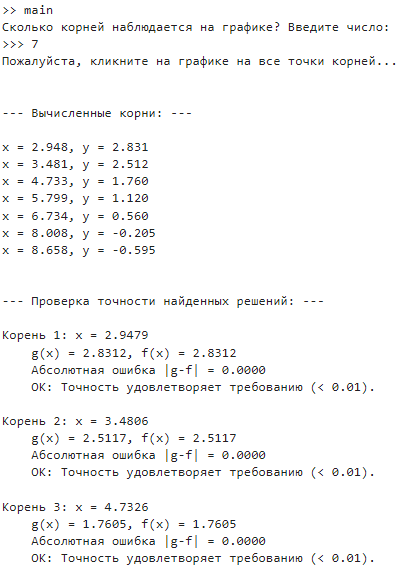
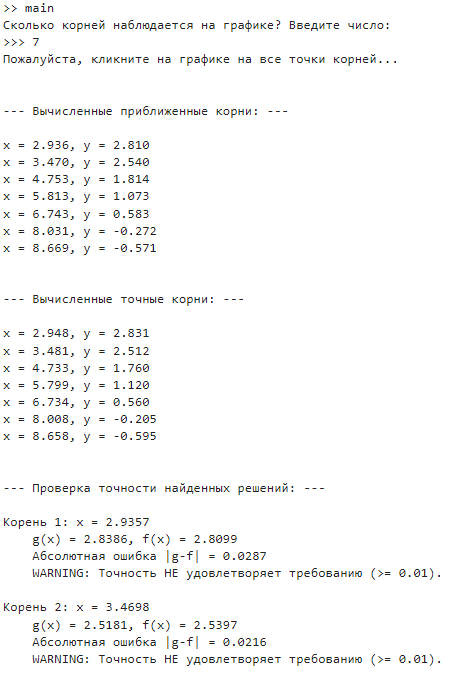
pioa_lab-6_v1 fix

diff --git a/reports/sem_3/pioa/lab-6/code/main.m b/reports/sem_3/pioa/lab-6/code/main.m
@@ -6,7 +6,7 @@ g = @(x) a*x + b;
 f = @(x) sin(x/2) - cos(3 * x) + 1;
 r = @(x) g(x) - f(x);
 
-x = 0 : 0.001 : 12; 
+x = 2 : 0.001 : 11; 
 
 y_1 = g(x);
 y_2 = f(x);
@@ -32,29 +32,61 @@ number_of_roots = input('>>> ');
 disp('Пожалуйста, кликните на графике на все точки корней...');
 [X_approx, ~] = ginput(number_of_roots);  % Пользователь находит корни на графике
 
+%% Приближенное решение
+
+dx = 0.5;
+approx_roots = inf(2, length(X_approx));  % 2 x N, где N - число корней. Первая строка для x, вторая для dy
+min_dy = inf(length(X_approx));
+for i = 1 : length(X_approx)
+    for x_0 = X_approx(i) - dx : 0.05 : X_approx(i) + dx
+        dy = abs(r(x_0));
+
+        if dy < min_dy(i)
+            approx_roots(:, i) = [x_0; f(x_0)];
+            min_dy(i) = dy;
+        end
+    end
+end
+
+fprintf('\n\n');
+disp('--- Вычисленные приближенные корни: ---');
+fprintf('\n');
+fprintf("x = %.3f, y = %.3f\n", approx_roots);
+
+% Добавление найденных точек на график
+h_points_approx = plot(h_axes, approx_roots(1, :), approx_roots(2, :), 'o');
+
+
+%% Точное решение
 % fzero пытается найти x, при котором r(x) = 0 на основе начального приближения
 % arrayfun применяется для обработки всех приближений сразу
 X_sol = arrayfun(@(x) fzero(r, x), X_approx);
 Y_sol = g(X_sol);
 
 fprintf('\n\n');
-disp('--- Вычисленные корни: ---');
+disp('--- Вычисленные точные корни: ---');
 fprintf('\n');
 fprintf("x = %.3f, y = %.3f\n", [X_sol'; Y_sol']);
 
 % Добавление найденных точек на график
-h_points = plot(h_axes, X_sol, Y_sol);
+h_points_accurat = plot(h_axes, X_sol, Y_sol, 'o');
 legend;
 
 %% Управление свойствами объектов
-set(h_points, ...
+set(h_points_approx, ...
     'Marker',           'o', ...
-    'MarkerEdgeColor',  'k', ...  % black
-    'MarkerSize',       8, ...
-    'DisplayName',      'Найденные решения');
+    'MarkerEdgeColor',  'magenta', ...
+    'MarkerFaceColor',  'magenta', ...
+    'MarkerSize',       4, ...
+    'DisplayName',      'Найденные приближенные решения');
+set(h_points_accurat, ...
+    'Marker',           'o', ...
+    'MarkerEdgeColor',  'black', ...
+    'MarkerSize',       12, ...
+    'DisplayName',      'Найденные точные решения');
 set(h_line1, ...
     'Color',       'blue', ...
-    'LineStyle',   '--', ...
+    'LineStyle',   '-', ...
     'LineWidth',   1, ...
     'DisplayName', 'g(x) = -0.6x + 4.6');
 
@@ -71,8 +103,8 @@ set(h_axes, 'GridLineStyle', ':');
 fprintf('\n\n');
 disp('--- Проверка точности найденных решений: ---');
 fprintf('\n');
-for i = 1:length(X_sol)
-    x_sol_i = X_sol(i);
+for i = 1 : length(approx_roots)
+    x_sol_i = approx_roots(1, i);
     g_sol_i = g(x_sol_i);
     f_sol_i = f(x_sol_i);
     

diff --git a/reports/sem_3/pioa/lab-6/code/oneRoot.m b/reports/sem_3/pioa/lab-6/code/oneRoot.m
@@ -1,6 +1,6 @@
 %% Определение исходной функции
 f = @(x) sin(x/2) - cos(3 * x) + 1;
-x_range = 0 : 0.001 : 12; 
+x_range = 2 : 0.001 : 11; 
 y2_values = f(x_range);
 
 %% Выбор новых коэффициентов
@@ -20,7 +20,7 @@ figure('Name', 'Единственное решение с крутым накл
 hold on;
 grid on;
 
-ylim([-3, 5])
+ylim([-2, 4])
 plot(x_range, y1_new, 'b--', 'DisplayName', sprintf('y_1(x) = %.1fx + %.1f', a_new, b_new));
 plot(x_range, y2_values, 'r', 'DisplayName', 'f(x) = sin(x/2) - cos(x) + 1;');
 
